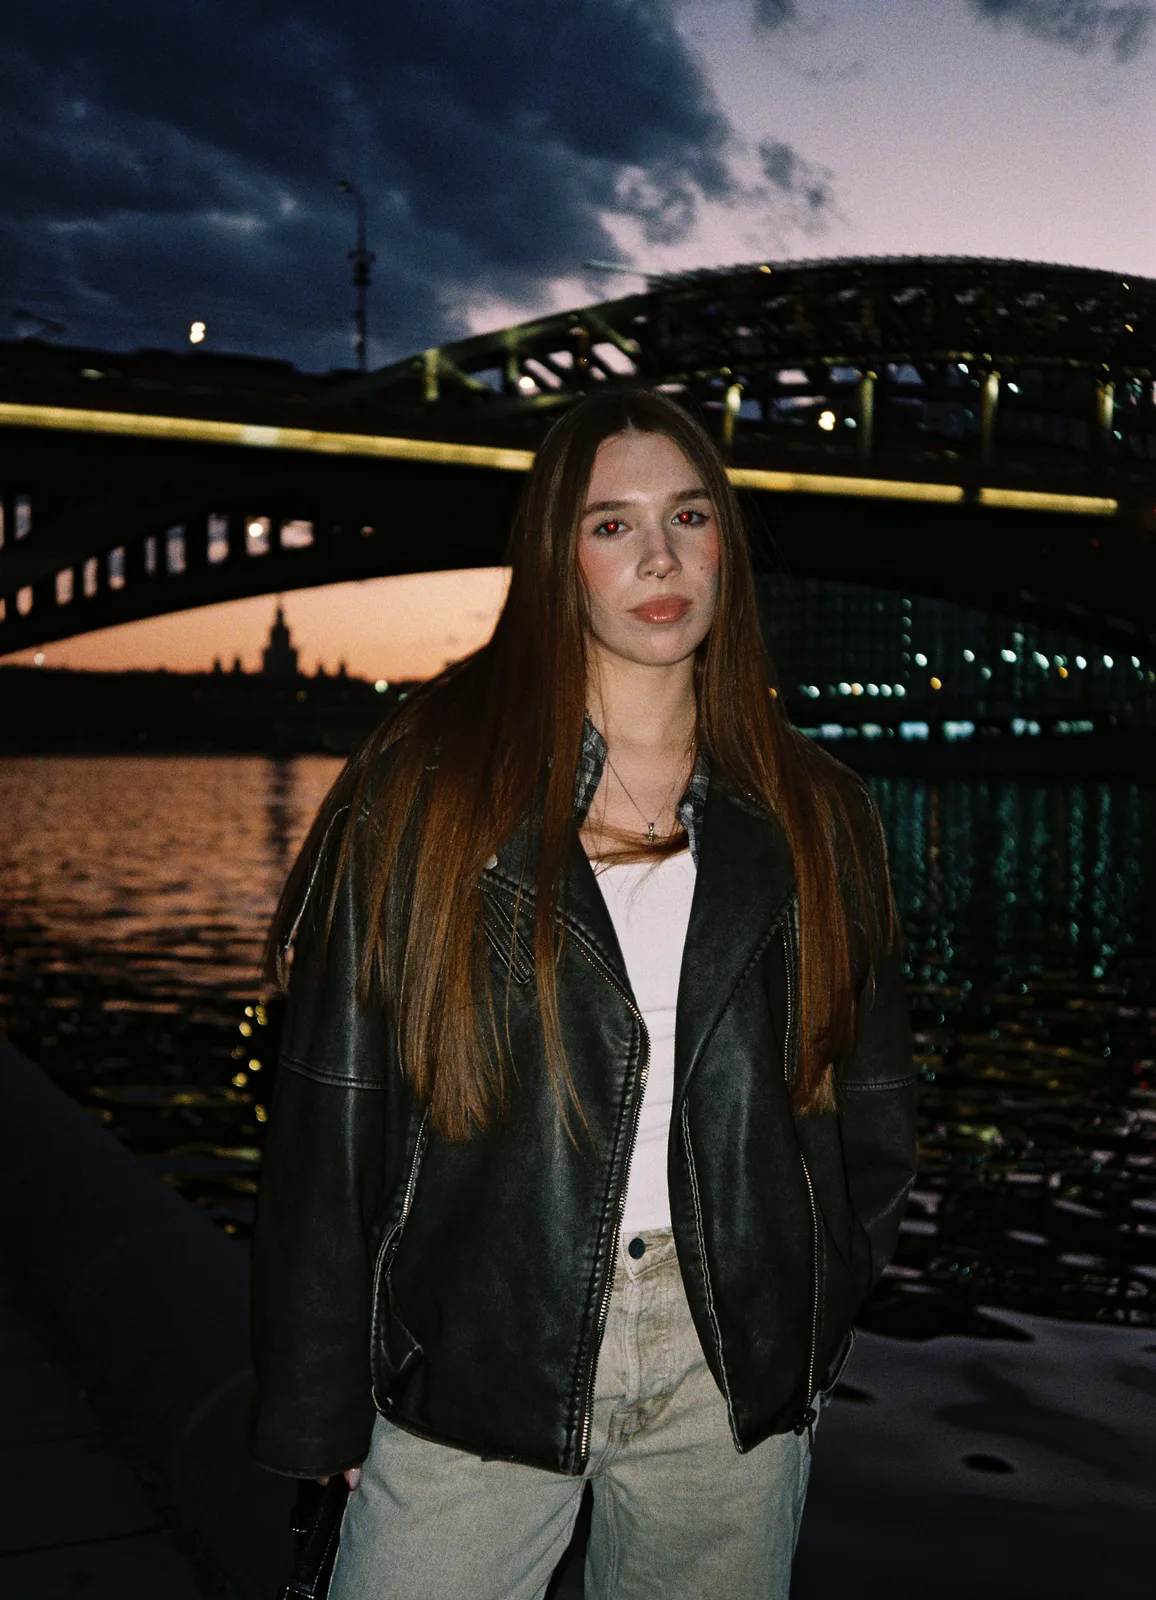
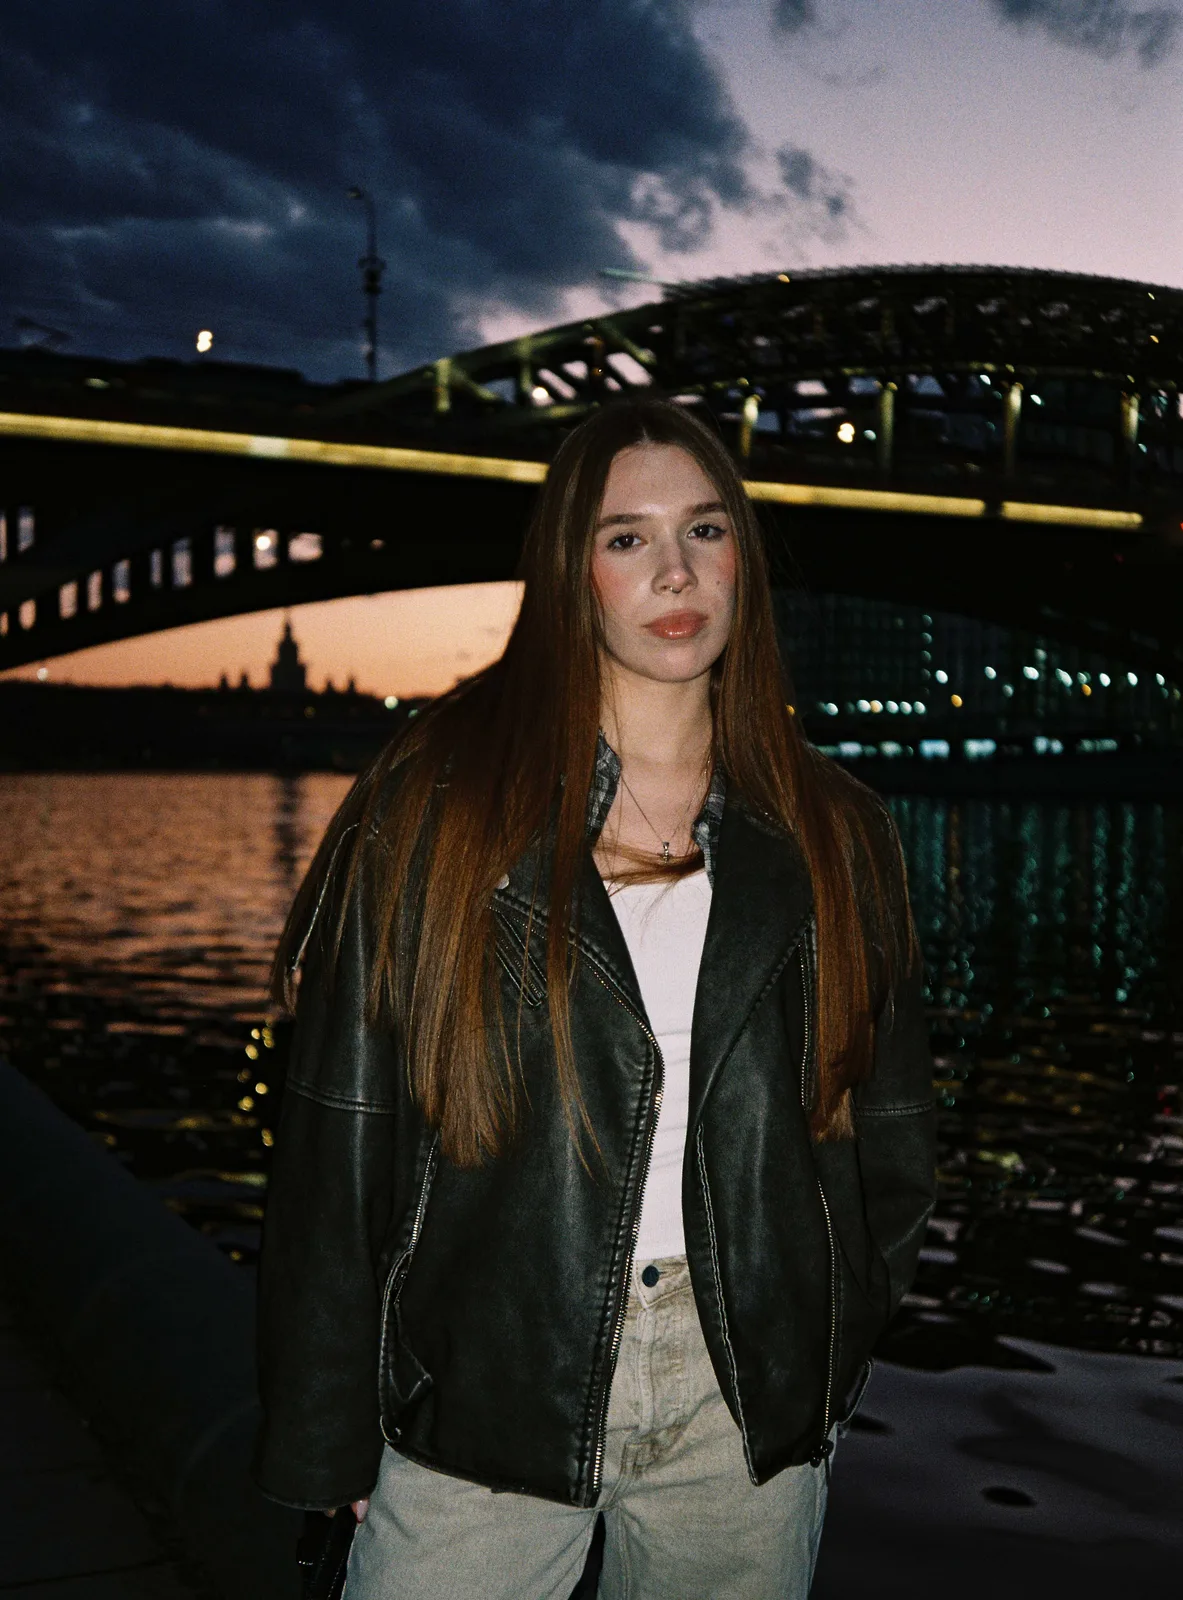
Update edited photos, swap in a new frame
Replace 5 photos with re-edited versions (same shots, new grading/crop):
R1-02759-0022, R1-02759-0023, R1-03643-0008, R1-04460-0029, R1-06163-032A.

Swap IMG_2451 for R1-06163-006A, a different frame from the same roll.

diff --git a/index.html b/index.html
@@ -64,8 +64,8 @@
         <div class="m-item"><img src="images/thumb/R1-06611-0013.webp" data-full="images/full/R1-06611-0013.webp" alt="" width="1600" height="1160"></div>
         <div class="m-item"><img src="images/thumb/759248l8-R1-11-11A.webp" data-full="images/full/759248l8-R1-11-11A.webp" alt="" width="1125" height="1600"></div>
         <div class="m-item"><img src="images/thumb/A645250-R1-10-10 2.webp" data-full="images/full/A645250-R1-10-10 2.webp" alt="" width="1083" height="1600"></div>
-        <div class="m-item"><img src="images/thumb/R1-02759-0023.webp" data-full="images/full/R1-02759-0023.webp" alt="" width="1156" height="1600"></div>
-        <div class="m-item"><img src="images/thumb/R1-02759-0022.webp" data-full="images/full/R1-02759-0022.webp" alt="" width="1232" height="1600"></div>
+        <div class="m-item"><img src="images/thumb/R1-02759-0023.webp" data-full="images/full/R1-02759-0023.webp" alt="" width="1183" height="1600"></div>
+        <div class="m-item"><img src="images/thumb/R1-02759-0022.webp" data-full="images/full/R1-02759-0022.webp" alt="" width="1238" height="1600"></div>
         <div class="m-item"><img src="images/thumb/R1-05764-018A.webp" data-full="images/full/R1-05764-018A.webp" alt="" width="1600" height="1083"></div>
         <div class="m-item"><img src="images/thumb/691540F4-R1-00-37.webp" data-full="images/full/691540F4-R1-00-37.webp" alt="" width="1600" height="1083"></div>
         <div class="m-item"><img src="images/thumb/R1-05677-0027.webp" data-full="images/full/R1-05677-0027.webp" alt="" width="1261" height="1600"></div>
@@ -78,7 +78,7 @@
         <div class="m-item"><img src="images/thumb/IMG_2441.webp" data-full="images/full/IMG_2441.webp" alt="" width="1280" height="1600"></div>
         <div class="m-item"><img src="images/thumb/R1-04862-0032.webp" data-full="images/full/R1-04862-0032.webp" alt="" width="901" height="1600"></div>
         <div class="m-item"><img src="images/thumb/A645250-R1-08-8 2.webp" data-full="images/full/A645250-R1-08-8 2.webp" alt="" width="1083" height="1600"></div>
-        <div class="m-item"><img src="images/thumb/R1-06163-032A.webp" data-full="images/full/R1-06163-032A.webp" alt="" width="1600" height="1083"></div>
+        <div class="m-item"><img src="images/thumb/R1-06163-032A.webp" data-full="images/full/R1-06163-032A.webp" alt="" width="1600" height="1061"></div>
         <div class="m-item"><img src="images/thumb/691540K4-R1-04-32A.webp" data-full="images/full/691540K4-R1-04-32A.webp" alt="" width="1542" height="1542"></div>
         <div class="m-item"><img src="images/thumb/R1-05677-0011.webp" data-full="images/full/R1-05677-0011.webp" alt="" width="1600" height="1200"></div>
         <div class="m-item"><img src="images/thumb/R1-05764-027A.webp" data-full="images/full/R1-05764-027A.webp" alt="" width="1083" height="1600"></div>
@@ -90,16 +90,16 @@
         <div class="m-item"><img src="images/thumb/R1-05677-0020.webp" data-full="images/full/R1-05677-0020.webp" alt="" width="1280" height="1600"></div>
         <div class="m-item"><img src="images/thumb/691540K4-R1-06-30.webp" data-full="images/full/691540K4-R1-06-30.webp" alt="" width="1600" height="1083"></div>
         <div class="m-item"><img src="images/thumb/R1-06092-0015.webp" data-full="images/full/R1-06092-0015.webp" alt="" width="1600" height="1200"></div>
-        <div class="m-item"><img src="images/thumb/R1-04460-0029.webp" data-full="images/full/R1-04460-0029.webp" alt="" width="1279" height="1600"></div>
+        <div class="m-item"><img src="images/thumb/R1-04460-0029.webp" data-full="images/full/R1-04460-0029.webp" alt="" width="1265" height="1600"></div>
         <div class="m-item"><img src="images/thumb/691540F4-R1-30-7.webp" data-full="images/full/691540F4-R1-30-7.webp" alt="" width="900" height="1600"></div>
         <div class="m-item"><img src="images/thumb/A649164-R1-20-21.webp" data-full="images/full/A649164-R1-20-21.webp" alt="" width="1055" height="1600"></div>
         <div class="m-item"><img src="images/thumb/691540K4-R1-11-25A.webp" data-full="images/full/691540K4-R1-11-25A.webp" alt="" width="1600" height="1083"></div>
         <div class="m-item"><img src="images/thumb/A620782-R1-28-27.webp" data-full="images/full/A620782-R1-28-27.webp" alt="" width="1600" height="1083"></div>
         <div class="m-item"><img src="images/thumb/R1-06092-0018.webp" data-full="images/full/R1-06092-0018.webp" alt="" width="1600" height="1083"></div>
-        <div class="m-item"><img src="images/thumb/IMG_2451.webp" data-full="images/full/IMG_2451.webp" alt="" width="1600" height="1083"></div>
+        <div class="m-item"><img src="images/thumb/R1-06163-006A.webp" data-full="images/full/R1-06163-006A.webp" alt="" width="1600" height="1165"></div>
         <div class="m-item"><img src="images/thumb/R1-03499-0002.webp" data-full="images/full/R1-03499-0002.webp" alt="" width="1600" height="1179"></div>
         <div class="m-item"><img src="images/thumb/R1-03499-0026.webp" data-full="images/full/R1-03499-0026.webp" alt="" width="1600" height="931"></div>
-        <div class="m-item"><img src="images/thumb/R1-03643-0008.webp" data-full="images/full/R1-03643-0008.webp" alt="" width="1600" height="1086"></div>
+        <div class="m-item"><img src="images/thumb/R1-03643-0008.webp" data-full="images/full/R1-03643-0008.webp" alt="" width="1600" height="1111"></div>
         <div class="m-item"><img src="images/thumb/R1-03643-0031.webp" data-full="images/full/R1-03643-0031.webp" alt="" width="1600" height="1107"></div>
         <div class="m-item"><img src="images/thumb/R1-03643-0010.webp" data-full="images/full/R1-03643-0010.webp" alt="" width="1600" height="1201"></div>
         <div class="m-item"><img src="images/thumb/R1-03643-0021.webp" data-full="images/full/R1-03643-0021.webp" alt="" width="1228" height="1600"></div>
